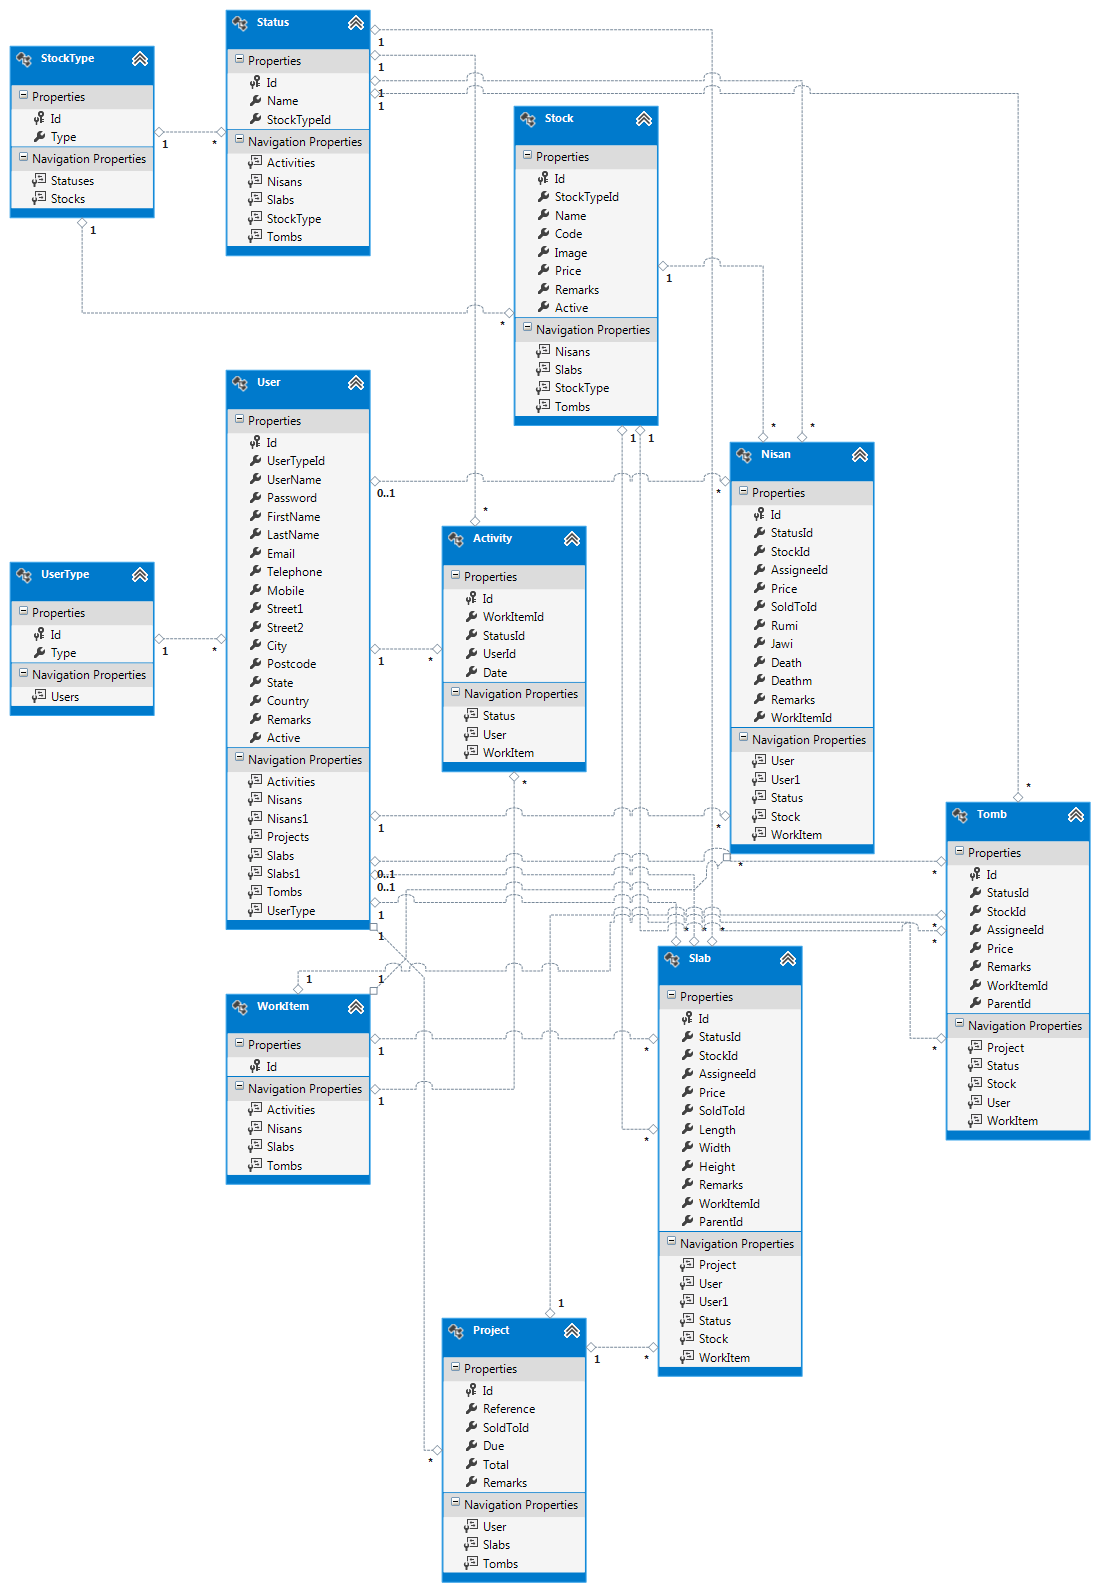
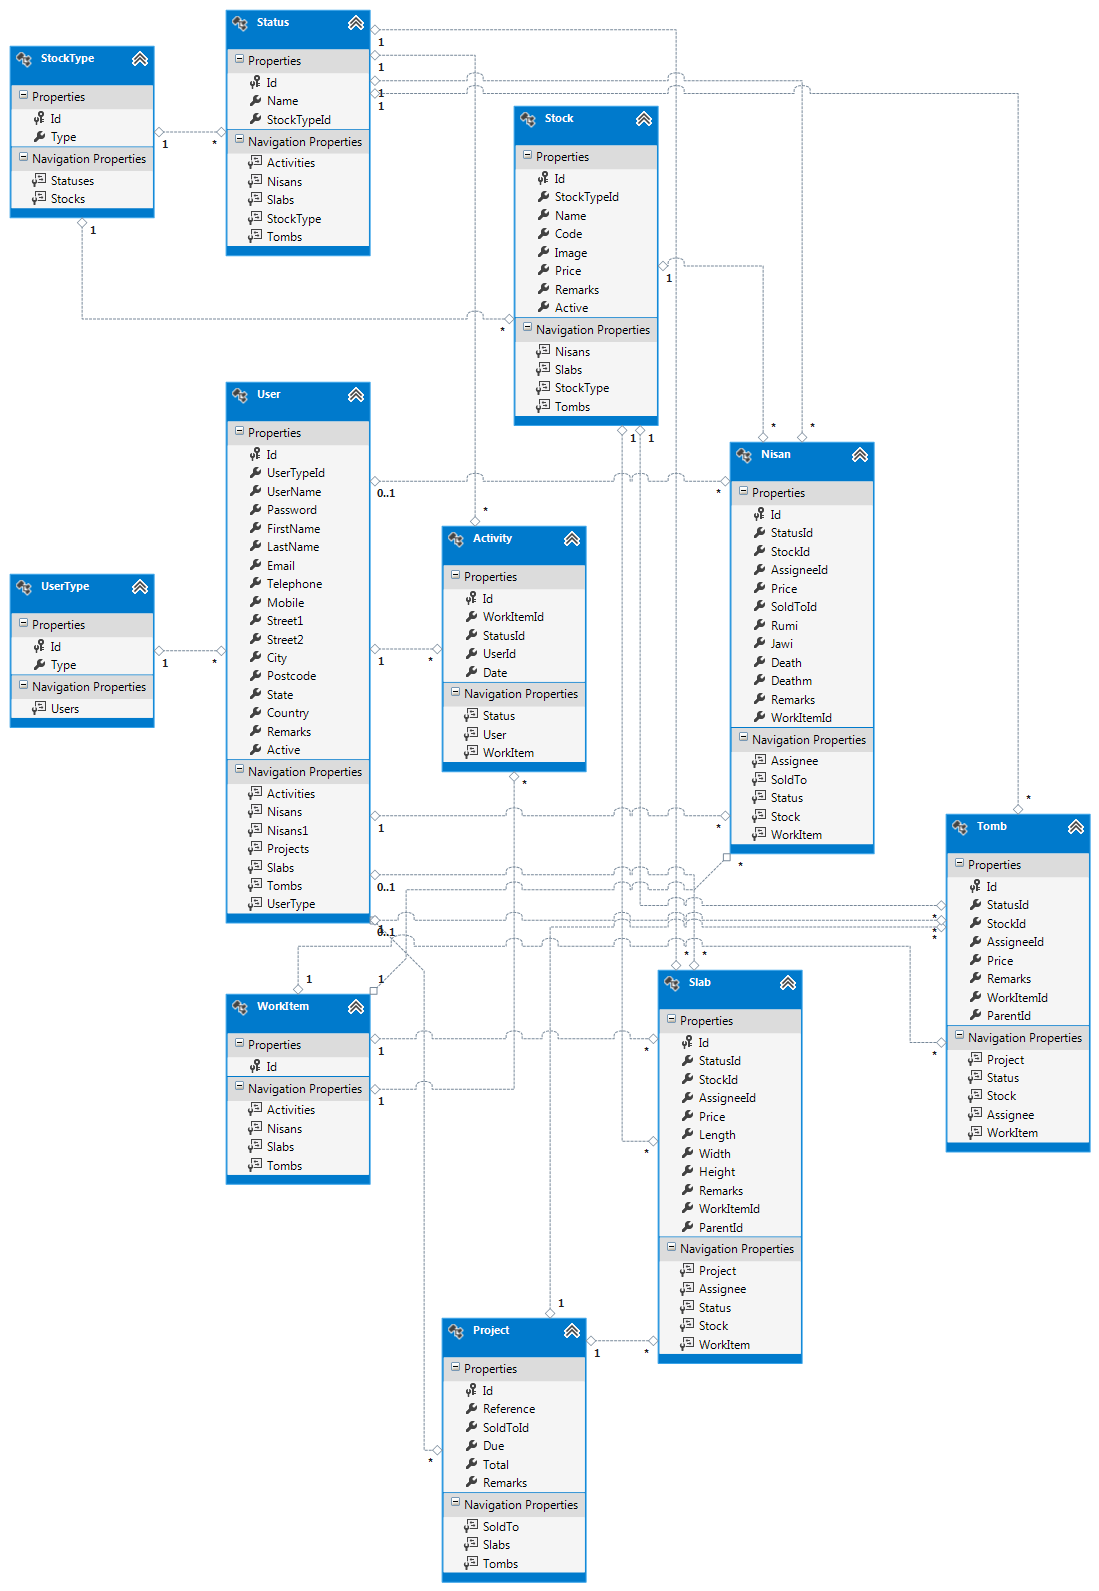
Correct slab table structure.

diff --git a/src/HLGranite.Mvc/Models/User.cs b/src/HLGranite.Mvc/Models/User.cs
@@ -22,7 +22,6 @@ namespace HLGranite.Mvc.Models
             this.Nisans1 = new HashSet<Nisan>();
             this.Projects = new HashSet<Project>();
             this.Slabs = new HashSet<Slab>();
-            this.Slabs1 = new HashSet<Slab>();
             this.Tombs = new HashSet<Tomb>();
         }
     
@@ -48,7 +47,6 @@ namespace HLGranite.Mvc.Models
         public virtual ICollection<Nisan> Nisans1 { get; set; }
         public virtual ICollection<Project> Projects { get; set; }
         public virtual ICollection<Slab> Slabs { get; set; }
-        public virtual ICollection<Slab> Slabs1 { get; set; }
         public virtual ICollection<Tomb> Tombs { get; set; }
         public virtual UserType UserType { get; set; }
     }

diff --git a/src/HLGranite.Mvc/Models/Slab.cs b/src/HLGranite.Mvc/Models/Slab.cs
@@ -19,7 +19,6 @@ namespace HLGranite.Mvc.Models
         public int StockId { get; set; }
         public Nullable<int> AssigneeId { get; set; }
         public Nullable<decimal> Price { get; set; }
-        public int SoldToId { get; set; }
         public Nullable<int> Length { get; set; }
         public Nullable<int> Width { get; set; }
         public Nullable<int> Height { get; set; }
